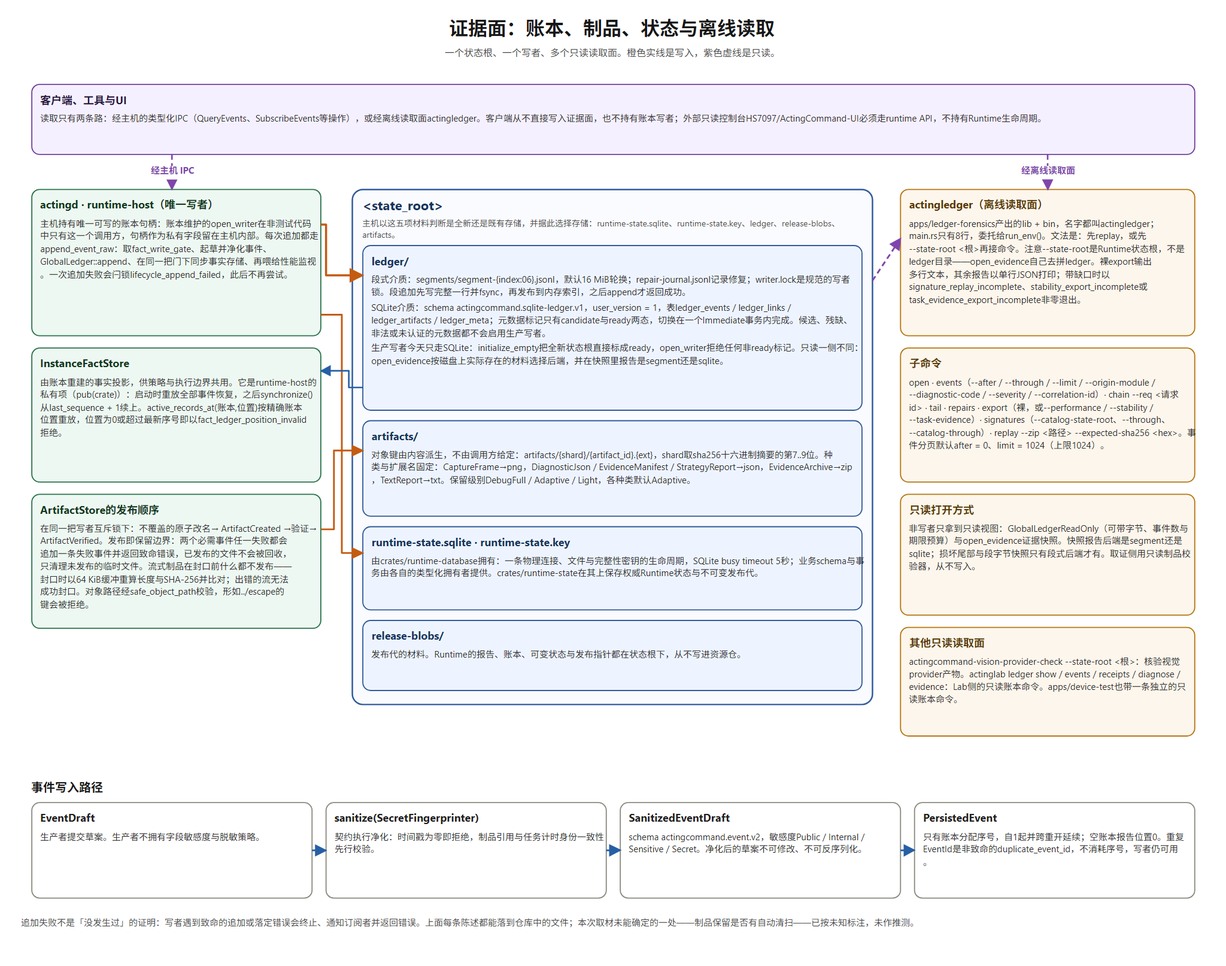
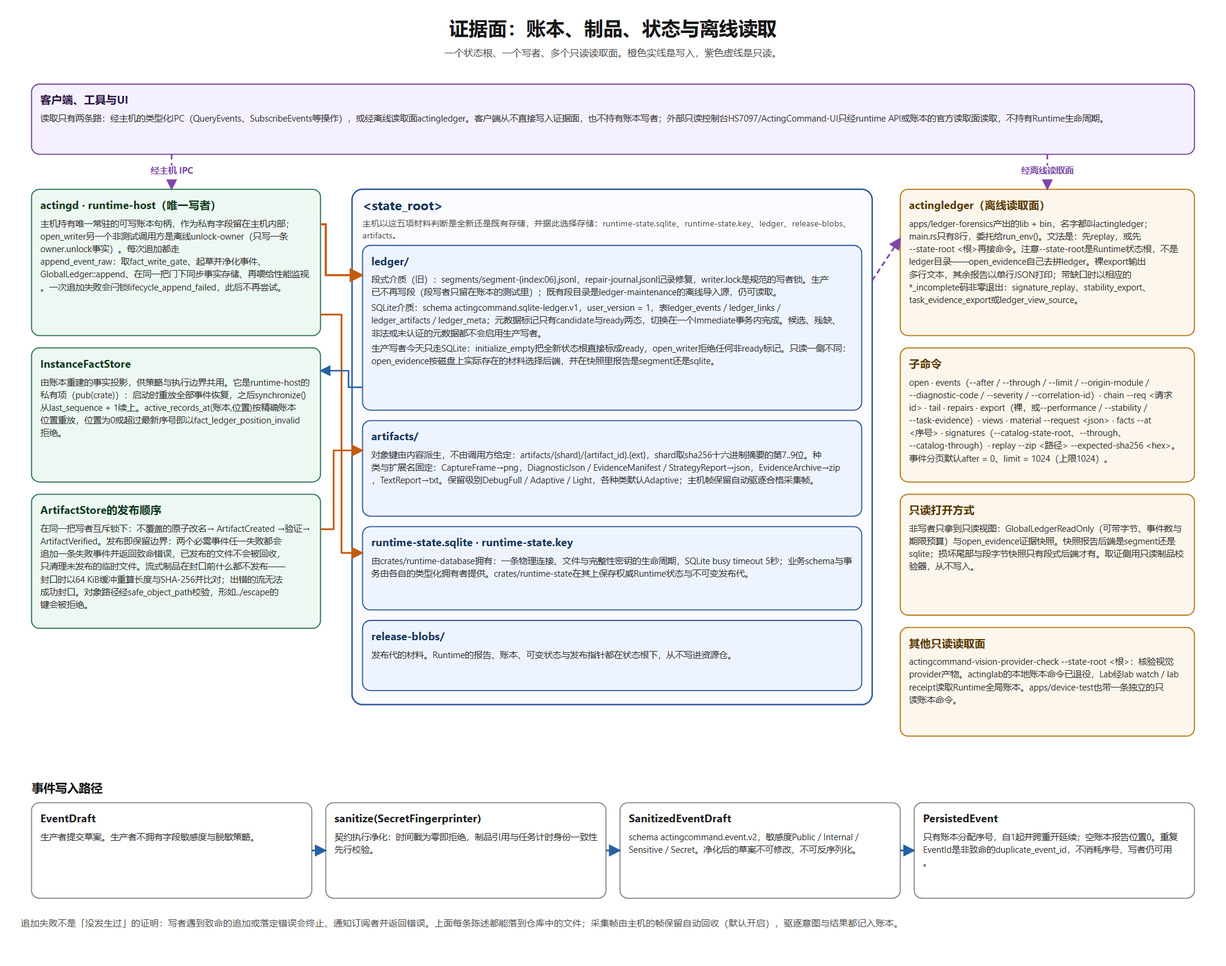
README: bring the pair and its diagrams up to the current state (#332)
Header roles per the owner's 2026-09-29 ruling and the new iteration notice. Verified every count, command, path and line reference against main 3b8b1eed: 55 RuntimeOperation variants, 31 members (22 crates, selection-policy added; no benchmark member), 21 contract dependents, one ratchet file with 132 commands, guard lines 239/333, capacity admission at five entry points, nemu_ipc input backend, the missing actingctl / actingledger / ledger-maintenance subcommands. Current boundaries rewritten for 2026-09-29 (real-device end-to-end run, SQLite-only production ledger with a segment read face, automatic capture-frame retention, UI wizard and console, pinned scheduling package, daemon-side agent surface) and the merge practice. Stale diagram labels fixed in the three SVG pairs; PNGs re-rendered at their previous pixel sizes.

diff --git a/README.md b/README.md
@@ -5,18 +5,18 @@
 <img src="docs/assets/readme/actingcommand-icon.png" width="112" alt="ActingCommand icon">
 
 **Chief Executive Officer & Chairman** — HS7097<br/>
-**Chief Technology Officer & Chief Architect** — GPT‑6 Astra<br/>
-**Board Secretary & Chief Audit Officer** — Fable 5.1<br/>
-**Principal Engineer** — GPT‑6 Astra<br/>
+**Chief Technology Officer & Chief Architect** — Claude Opus 5.5 · GPT‑6 Astra · Claude Fable 5 · GPT‑5.6 Sol<br/>
+**Board Secretary & Chief Audit Officer** — Claude Opus 5.5 · Claude Fable 5.1<br/>
+**Principal Engineer** — Claude Opus 5.5 · GPT‑6 Astra · GPT‑5.6 Sol<br/>
 **Interviewing** — DeepSeek
 
 </div>
 
-**⚠ This program is still iterating rapidly; expect it to be complete within 2–5 weeks.**
+**⚠ The main-line features are complete and have run end to end on a real emulator instance; multi-day validation and clean-up are still under way, and interfaces may still change.**
 
 # ActingCommand Runtime
 
-ActingCommand Runtime is a resident Rust runtime for running multi-target automation on emulators. The kernel carries no identity of any concrete target: contracts, defaults, benchmarks and fixtures are all scanned by guard tests that keep them neutral (`tools/actinglab-architecture/tests/workspace_guards.rs:161`, `:212`). All target knowledge lives as declarative resource packs in separate resource repositories, and the runtime accepts only sealed, hash-verified packs (`actingctl task-run` requires `--package`, plus either `--expected-sha256` or `--package-ref`). The GlobalLedger is the single source of truth, and only runtime-host holds a writable handle to it; a fact must be sanitized by the contract layer into `actingcommand.event.v2` before it may enter the ledger. Device access always goes through a lease granted by the scheduler, and every write revalidates the fence. Every boundary fails closed: invalid configuration, a non-loopback bind, stale evidence and incomplete exports all end in an explicit error or a nonzero exit rather than a silent downgrade.
+ActingCommand Runtime is a resident Rust runtime for running multi-target automation on emulators. The kernel carries no identity of any concrete target: contracts, defaults, benchmarks and fixtures are all scanned by guard tests that keep them neutral (`tools/actinglab-architecture/tests/workspace_guards.rs:239`, `:333`). All target knowledge lives as declarative resource packs in separate resource repositories, and the runtime accepts only sealed, hash-verified packs (`actingctl task-run` requires `--package`, plus either `--expected-sha256` or `--package-ref`). The GlobalLedger is the single source of truth, and only runtime-host holds a writable handle to it; a fact must be sanitized by the contract layer into `actingcommand.event.v2` before it may enter the ledger. Device access always goes through a lease granted by the scheduler, and every write revalidates the fence. Every boundary fails closed: invalid configuration, a non-loopback bind, stale evidence and incomplete exports all end in an explicit error or a nonzero exit rather than a silent downgrade.
 
 [CI main status](https://github.com/HS7097/ActingCommand-Runtime/actions/workflows/ci.yml?query=branch%3Amain) (Windows: fmt / clippy `-D warnings` / test) · [Exact-SHA Windows build](https://github.com/HS7097/ActingCommand-Runtime/actions/workflows/windows-remote-build.yml) · License `AGPL-3.0-only` · [Coordination board](https://github.com/HS7097/ActingCommand-Workflow) · [UI console](https://github.com/HS7097/ActingCommand-UI) · [Legacy archive](https://github.com/HS7097/ActingCommand-Legacy-Runtime)
 
@@ -33,13 +33,13 @@ ActingCommand Runtime is a resident Rust runtime for running multi-target automa
 
 ![ActingCommand Runtime layering and ownership overview](docs/assets/readme/architecture-overview.en.png)
 
-`actingcommand-contract` is where the whole workspace converges: 17 packages depend on it, it depends on no workspace package, and it uses only serde, serde_json and sha2. It defines the vocabulary of the protocol, device and engine boundaries, and contains no target logic.
+`actingcommand-contract` is where the whole workspace converges: 21 packages depend on it (22 counting dev-dependencies), it depends on no workspace package, and it uses only serde, serde_json and sha2. It defines the vocabulary of the protocol, device and engine boundaries, and contains no target logic.
 
 `actingcommand-runtime-client` is the only typed IPC path available to clients. A client never constructs and never owns a production device backend, and closing a UI or CLI client does not stop the runtime.
 
-`actingcommand-runtime-host` owns the resident process. With an out-degree of 13 it is the widest node in the graph. It exclusively holds local IPC, the lease-gated DeviceProxy and lifecycle control, and, among normal (non-dev) dependencies, it is the sole consumer of `actingcommand-scheduler`, `actingcommand-runtime-state` and `actingcommand-host-metrics`.
+`actingcommand-runtime-host` owns the resident process. With an out-degree of 13 it is the widest node in the graph. It exclusively holds local IPC, the lease-gated DeviceProxy and lifecycle control, and, among normal (non-dev) dependencies, it is the sole consumer of `actingcommand-runtime-state`; `actingcommand-scheduler` and `actingcommand-host-metrics` it shares only with the `device-test` probing tool, which admits its own device writes through a process-local scheduler lease.
 
-`actingcommand-scheduler` owns per-instance write admission, lease lifetime and fencing authority, and its only dependency is the contract. `actingcommand-policy` is a pure scheduling-policy contract shared by the catalog compiler and the evaluator. `actingcommand-execution-kernel` holds the daemon-side execution session and pure task/probe decision planning; it is invoked only after the scheduler has admitted the work and fencing has completed, and a client never obtains a backend object.
+`actingcommand-scheduler` owns per-instance write admission, lease lifetime and fencing authority, and its only dependency is the contract. `actingcommand-policy` is a pure scheduling-policy contract shared by the catalog compiler and the evaluator; it builds on `actingcommand-selection-policy`, a pure selection evaluator (a declared document, a bounded candidate set and an explicit fact snapshot in, a deterministic choice with its reasons out). `actingcommand-execution-kernel` holds the daemon-side execution session and pure task/probe decision planning; it is invoked only after the scheduler has admitted the work and fencing has completed, and a client never obtains a backend object.
 
 The device layer `actingcommand-device` selects input through an explicit backend chain, which keeps a single backend failure visible and bounded. The recognition stack is strictly layered and acyclic: `recognition` ← `recognition-pack` ← `page-detector` ← `pack-containment`. `actingcommand-vision-ffi` is the safety boundary for the OCR/NN engines, making it impossible for a caller to quietly substitute a simulated recognition for a production result.
 
@@ -51,14 +51,14 @@ The authoring side is removable: `crates/lab` has exactly one consumer, `apps/ac
 
 ![The complete lifecycle of one runtime request](docs/assets/readme/request-lifecycle.en.png)
 
-1. **Assemble** (`runtime-client`): the caller picks one of 47 typed `RuntimeOperation` variants; the client mints a request_id and a correlation_id and writes the actor, source and submission time, forming an `actingcommand.runtime.request.v3` request.
+1. **Assemble** (`runtime-client`): the caller picks one of 55 typed `RuntimeOperation` variants; the client mints a request_id and a correlation_id and writes the actor, source and submission time, forming an `actingcommand.runtime.request.v3` request.
 2. **Discover** (`runtime-client`): the client reads `<state_root>/runtime-info.json` and requires its host to be a loopback address and pid/port/start time to be nonzero; after connecting over TCP it sends Health first, and if the owner epoch no longer matches the one seen at discovery the session is refused with `runtime_owner_epoch_changed`.
 3. **Frame** (`runtime-client`): a request goes out as a 4-byte big-endian length prefix plus JSON, with a 1 MiB default cap on both ends, and the receipt read deadline is loaded according to the operation category.
 4. **Accept** (`runtime-host`): the accept loop assigns each connection an increasing ConnectionId and serves it on its own named thread; the connection is wrapped in catch_unwind and, on exit, releases that connection's leases under either Disconnect or HostShutdown.
-5. **Validate** (`actingcommand-contract`): `RuntimeRequest::validate()` rejects, in order, a wrong schema, a zero timestamp and an actor/source combination outside the allow table, then applies the per-family origin gates: shutdown must be User/Ui or Cli/Cli, Lab and debug must be Lab/Lab, a governance identity card must be declared by User/Ui or Cli/Cli and an approval decision must be User/Ui, and facts and planning must be Agent/Adapter. A failure produces a Denied + InvalidRequest receipt.
+5. **Validate** (`actingcommand-contract`): `RuntimeRequest::validate()` rejects, in order, a wrong schema, a zero timestamp and an actor/source combination outside the allow table, then applies the per-family origin gates: shutdown, emulator control, instance discovery, self-check and scheduling pause / resume must be User/Ui or Cli/Cli, Lab and debug must be Lab/Lab, a governance identity card must be declared by User/Ui or Cli/Cli and an approval decision must be User/Ui, and facts and planning must be Agent/Adapter (a fact observation made only of manual priority offsets may also come from User/Ui or Cli/Cli). A failure produces a Denied + InvalidRequest receipt.
 6. **Authorize** (`runtime-host`): an approval decision additionally requires that the connection has previously had a governance identity card accepted by `DeclareGovernanceIdentity` (client name, optional version and instance; no shared secret). The host checks the card against its allowed clients and registered instances, records every declaration, accepted or refused, as a `governance.identity_declared` ledger event, and on acceptance records the ConnectionId.
 7. **Dispatch** (`runtime-host`): `process_validated` is the single exhaustive match from operation family to handler; a lease-bearing family first asserts that the target alias/ID is a physical instance.
-8. **Capacity admission** (`runtime-host`): before authorizing new work the host consults the capacity projection. The projection reads the last committed capacity sample from an in-process cache (each entry carries a reference back to the ledger event), and refuses on a missing sample, an owner epoch change, a sample outside the freshness window, a volume binding change, an unreadable volume or hard-threshold pressure; a refusal appends a Scheduler `denied` event and comes back with the receipt. Four request-side work entry points are protected this way (the same projection also has call sites on non-request paths): granting a lease, collecting an observation, running a contained task and running a scheduled contained task.
+8. **Capacity admission** (`runtime-host`): before authorizing new work the host consults the capacity projection. The projection reads the last committed capacity sample from an in-process cache (each entry carries a reference back to the ledger event), and refuses on a missing sample, an owner epoch change, a sample outside the freshness window, a volume binding change, an unreadable volume or hard-threshold pressure; a refusal appends a Scheduler `denied` event and comes back with the receipt. Five work entry points are protected this way (the same projection also has other call sites: policy dispatch, the monitor probe, lease transfer and the performance monitor's preflight): granting a lease, collecting an observation, running a contained task, running a scheduled contained task and running an instance's startup package after an emulator start.
 9. **Lease** (`scheduler`): the lease is prepared and committed in two phases under the per-instance admission lock; the TTL of a contained task is derived from the deadline of the request itself, and the task deadline is then clamped to lease expiry minus the heartbeat reserve.
 10. **Fence every call** (`scheduler`): every single call that touches the device revalidates the token — owner epoch, cooldown, lease position, instance/lease/holder identity, owning connection, expiry, whole-token equality and the resource_close_only state.
 11. **Execute** (`execution-kernel`): the kernel runs the contained task under a daemon-owned session, selects the capture and input backends by name and calls the vision provider with a fixed model_ref and model_sha256; every capture, input and trace calls back into the host through `ContainedTaskRuntime`, so the host records the facts, not the kernel.
@@ -68,7 +68,7 @@ The authoring side is removable: `crates/lab` has exactly one consumer, `apps/ac
 
 ![The evidence plane: a single-writer ledger and read-only readers](docs/assets/readme/evidence-plane.en.png)
 
-**GlobalLedger** is the single source of truth and runtime-host is its only writer: the writable handle is opened only in `RuntimeHost::start_with_provider` and is held as a private field; the offline `actingd unlock-owner` alone opens its own writer for its single `owner.unlock` fact. A producer submits an `EventDraft`, which must pass `sanitize()` into an immutable, non-deserializable `SanitizedEventDraft` (`actingcommand.event.v2`) before it may enter the ledger; field sensitivity and the redaction policy are decided by the contract, not by the producer. Sequence numbers are assigned by the ledger alone, start at 1 and continue across a reopen. A duplicate EventId is the nonfatal `duplicate_event_id` and consumes no sequence number, whereas a failed append does not mean "the event does not exist" — the writer terminates on a fatal error and notifies its subscribers. The medium the host writes to today is SQLite: schema `actingcommand.sqlite-ledger.v1`, with its tables in the same database as `runtime-state.sqlite`. A brand-new state root has the `ready` marker written directly by `initialize_empty`, and `open_writer` refuses any marker that is not `ready`, so a freshly installed instance runs on SQLite from the start. The segment storage `<state_root>/ledger/segments/segment-NNNNNN.jsonl` (16 MiB rotation by default, whole lines written and fsynced before being published to the in-memory index) is the legacy on-disk form, frozen and imported by the offline `ledger-maintenance` path; a `candidate` or unauthenticated marker never enables the production writer, and the cutover completes inside a single Immediate transaction. The read-only side differs: `open_evidence` picks its backend from the material actually present in the state root and reports in the snapshot whether that backend is segment or sqlite.
+**GlobalLedger** is the single source of truth and runtime-host is its only writer: the writable handle is opened only in `RuntimeHost::start_with_provider` and is held as a private field; the offline `actingd unlock-owner` alone opens its own writer for its single `owner.unlock` fact. A producer submits an `EventDraft`, which must pass `sanitize()` into an immutable, non-deserializable `SanitizedEventDraft` (`actingcommand.event.v2`) before it may enter the ledger; field sensitivity and the redaction policy are decided by the contract, not by the producer. Sequence numbers are assigned by the ledger alone, start at 1 and continue across a reopen. A duplicate EventId is the nonfatal `duplicate_event_id` and consumes no sequence number, whereas a failed append does not mean "the event does not exist" — the writer terminates on a fatal error and notifies its subscribers. The medium the host writes to today is SQLite: schema `actingcommand.sqlite-ledger.v1`, with its tables in the same database as `runtime-state.sqlite`. A brand-new state root has the `ready` marker written directly by `initialize_empty`, and `open_writer` refuses any marker that is not `ready`, so a freshly installed instance runs on SQLite from the start. The segment storage `<state_root>/ledger/segments/segment-NNNNNN.jsonl` is the legacy on-disk form: production no longer writes it (the segment writer survives only in the ledger crate's own tests), and an existing segment directory is frozen and imported by the offline `ledger-maintenance` path; a `candidate` or unauthenticated marker never enables the production writer, and the cutover completes inside a single Immediate transaction. The read-only side differs: `open_evidence` picks its backend from the material actually present in the state root (the SQLite ledger when its schema is present, otherwise the segment directory) and reports in the snapshot whether that backend is segment or sqlite.
 
 **ArtifactStore** owns artifact bytes and hashes. The object key is derived from content rather than specified by the caller: `artifacts/{shard}/{artifact_id}.{ext}`. The publication order is no-overwrite atomic rename → ArtifactCreated → verification → ArtifactVerified; publication is the retention boundary — a failure of either required event appends a failure event and returns a fatal error, but an already published file is not reclaimed and only unpublished temporary files are cleaned up. A streaming artifact publishes nothing until sealing has recomputed its length and SHA-256.
 
@@ -76,7 +76,7 @@ The authoring side is removable: `crates/lab` has exactly one consumer, `apps/ac
 
 **InstanceFactStore** is a fact projection rebuilt from the ledger and private to runtime-host; it recovers at startup by replaying every event and afterwards synchronizes incrementally from last_sequence+1. It can also replay history at an exact ledger position; a position of 0 or one beyond the latest sequence number is refused.
 
-**Offline reads** are served by `actingledger`, which opens only a read-only evidence snapshot and never writes. Its subcommands are `open`, `events`, `chain --req <request-id>`, `tail`, `repairs`, `export` (optionally with `--performance` / `--stability` / `--task-evidence`), `signatures`, `facts --at <sequence>` (the runtime fact store replayed at one ledger position) and `replay`. Except for bare `export`, which prints a human-readable multi-line text report, every report is single-line JSON; when evidence has gaps the report is printed first and the tool then exits nonzero with `signature_replay_incomplete`, `stability_export_incomplete`, `task_evidence_export_incomplete` or, for `facts`, `runtime_facts_not_available` / the failure code.
+**Offline reads** are served by `actingledger`, which opens only a read-only evidence snapshot and never writes. Its subcommands are `open`, `events`, `chain --req <request-id>`, `tail`, `repairs`, `export` (optionally with `--performance` / `--stability` / `--task-evidence`), `views` (one page of the ledger's terminal views, the same page the runtime serves), `material --request <json>` (one verified range of one committed artifact), `signatures`, `facts --at <sequence>` (the runtime fact store replayed at one ledger position) and `replay`. Except for bare `export`, which prints a human-readable multi-line text report, every report is single-line JSON; when evidence has gaps the report is printed first and the tool then exits nonzero with `signature_replay_incomplete`, `stability_export_incomplete`, `task_evidence_export_incomplete`, `ledger_view_source_incomplete` or, for `facts`, `runtime_facts_not_available` / the failure code.
 
 ## Invariants and guards
 
@@ -84,13 +84,13 @@ The authoring side is removable: `crates/lab` has exactly one consumer, `apps/ac
 
 The guard suite lives in `tools/actinglab-architecture/tests/workspace_guards.rs`. The Lab checks preserve private module ownership, helper visibility and production call paths; Rust compilation checks import resolution. The named guards include `c2_runtime_code_contracts_defaults_and_fixtures_are_project_neutral`, `r2f_product_and_authoring_paths_have_no_builtin_game_identity` (the neutrality scans), `workspace_packages_do_not_depend_on_apps`, `contract_dependencies_stay_within_budget`, `actingcommand_contract_has_no_dependency_path_to_actingcommand_ledger`, `all_non_lab_packages_remain_lab_free_with_all_features`, `production_packages_cannot_reach_resource_tooling`, `dependency_metadata_requests_all_features` and `feature_gated_forbidden_dependency_paths_are_detected`.
 
-Three ratchet files sit in `ratchet/` at the repository root: `actinglab_commands.json` (schema `actingcommand.command-inventory.v1`, 47 top-level dispatch arms / 131 commands / 8 pipeline exemptions), `main_rs_lines.txt` (`418`) and `ledger_forensics_main_rs_lines.txt` (`8`). The guard tests `command_inventory_matches_checked_in_snapshot`, `main_rs_line_ratchet_matches_checked_in_baseline` and `forensic_leaf_dependency_boundary_is_narrow_and_production_free` read them respectively.
+One ratchet file sits in `ratchet/` at the repository root: `actinglab_commands.json` (schema `actingcommand.command-inventory.v1`, 47 top-level dispatch arms / 132 commands / 8 pipeline exemptions), read by the guard test `command_inventory_matches_checked_in_snapshot`.
 
 There are three CI workflows in total. `ci.yml` runs formatting, a locked workspace build and Clippy on windows-latest. Its Test step preserves four separate results: the workspace excluding actingd/runtime-client, runtime-client, the actingd binary and the process integration target. Test observation also runs the two existing runtime-client checks with the `test-observation` feature; the architecture guards remain part of the workspace tests. `commit-identity-guard.yml` runs on ubuntu-latest and requires the author **and** committer email of every commit in the pushed or PR range to fall inside an exact eight-entry allowlist (two noreply forms for each of the three accounts HS7097 / HS7097Agt / HS7097ViW, one registered mailbox address, and the GitHub web committer `noreply@github.com`), failing otherwise. `windows-remote-build.yml` parses and re-checks a 40-character lowercase SHA and then runs `cargo build --locked --release --target x86_64-pc-windows-msvc`, producing two artifacts, each with a `BUILD-MANIFEST.json`.
 
 ## Workspace members
 
-The workspace declares 30 members, resolver `3`, a workspace-level edition of 2024, all `publish = false`.
+The workspace declares 31 members, resolver `3`, a workspace-level edition of 2024, all `publish = false`.
 
 ### apps (6)
 
@@ -98,12 +98,12 @@ The workspace declares 30 members, resolver `3`, a workspace-level edition of 20
 | --- | --- | --- | --- |
 | apps/actingctl | actingcommand-actingctl | bin `actingctl` | Lean production CLI for correlation-scoped runtime flows |
 | apps/actingd | actingcommand-actingd | bin `actingcommand-actingd` | Lean process adapter for the resident runtime |
-| apps/actinglab | actingcommand-actinglab | bin `actinglab` | Authoring and debugging CLI, 47 top-level dispatch arms, 131 commands |
+| apps/actinglab | actingcommand-actinglab | bin `actinglab` | Authoring and debugging CLI, 47 top-level dispatch arms, 132 commands |
 | apps/device-test | actingcommand-device-test | bin `actingcommand-device-test` | Device backend probing, offline dry-run planning, page/recognition evaluation |
 | apps/ledger-forensics | actingledger | lib + bin `actingledger` | Read-only front end for ledger forensic reports, replay and the signature catalog |
 | apps/vision-provider-check | actingcommand-vision-provider-check | bin | Verifies vision provider artifact manifests, emits artifact locks and export audits |
 
-### crates (21)
+### crates (22)
 
 | Path | Package | Responsibility |
 | --- | --- | --- |
@@ -127,6 +127,7 @@ The workspace declares 30 members, resolver `3`, a workspace-level edition of 20
 | crates/runtime-host | actingcommand-runtime-host | Resident runtime ownership, local IPC, lease-gated DeviceProxy and lifecycle |
 | crates/runtime-state | actingcommand-runtime-state | SQLite-backed authoritative runtime state and immutable release generations |
 | crates/scheduler | actingcommand-scheduler | Per-instance write admission, lease lifetime and fencing authority |
+| crates/selection-policy | actingcommand-selection-policy | Pure selection-policy evaluator: declared document, bounded candidates and explicit facts in, deterministic choice with reasons out; plus the offline debugging bin `selection-eval` |
 | crates/vision-ffi | actingcommand-vision-ffi | Safe FFI boundary for OCR/NN engines |
 
 ### providers (2)
@@ -136,7 +137,7 @@ The workspace declares 30 members, resolver `3`, a workspace-level edition of 20
 | providers/onnxruntime-json | actingcommand-onnxruntime-json-provider | cdylib + rlib | ONNXRuntime-backed NN JSON ABI provider, exports `ac_onnxruntime_classify_json` |
 | providers/ppocr-onnx-json | actingcommand-ppocr-onnx-json-provider | cdylib + rlib | ONNXRuntime-backed PPOCR ROI recognizer, exports `ac_fastdeploy_ppocr_read_text_json`; ships no models or runtime DLLs |
 
-### tools (1) and benchmarks (1)
+### tools (1)
 
 | Path | Package | Output | Responsibility |
 | --- | --- | --- | --- |
@@ -144,18 +145,20 @@ The workspace declares 30 members, resolver `3`, a workspace-level edition of 20
 
 ## Device and recognition
 
-Capture backends exist by name: `fixture_simulation`, `adb_screencap`, `adb_screencap_encode`, `adb_screencap_raw_gzip`, `droidcast_raw`, `nemu_ipc`, with selectable values `auto`, `auto-fastest`, `adb`, `droidcast_raw` and `nemu_ipc`. The input backends are `maatouch`, `minitouch` and `adb_shell_input`, with selectable values `auto`, `auto-fastest`, `maatouch`, `minitouch` and `adb_shell_input`. The Nemu IPC capture backend is implemented inside the crate and carries its own worker thread. Vendor stdio is captured in bounded, explicitly closed sessions that report a resource-quiescence state.
+Capture backends exist by name: `fixture_simulation`, `adb_screencap`, `adb_screencap_encode`, `adb_screencap_raw_gzip`, `droidcast_raw`, `nemu_ipc`, with selectable values `auto`, `auto-fastest`, `adb`, `droidcast_raw` and `nemu_ipc`. The input backends are `nemu_ipc`, `maatouch`, `minitouch` and `adb_shell_input`, with selectable values `auto`, `auto-fastest`, `nemu_ipc`, `maatouch`, `minitouch` and `adb_shell_input`. The Nemu IPC capture and input backends are implemented inside the crate; the capture backend carries its own worker thread. Vendor stdio is captured in bounded, explicitly closed sessions that report a resource-quiescence state.
 
 Recognition targets come in five kinds: Template, Color, ClickOnly, Ocr and Nn. Template matching is CPU image matching with an explicit 5-second timeout and a two-stage coarse-match/refine structure; a timeout failure reports which stage it occurred in. Production OCR and NN are reachable only through the `vision-ffi` boundary into two separate cdylib providers, and the host-side adapter enforces provider identity: `model_ref` must be a bounded logical identifier containing no `/`, `\` or `:` (host paths are not accepted), and `model_sha256` must be exactly 64 lowercase hexadecimal characters. Page projection is a side-effect-free projection of the resolved facts of a single frame, schema `actingcommand.page-projection.v1`, capped at 64 entries / 32 KiB, with entries keyed by role (Navigate / PageOp / ControlPoint), task ID, resource ID and page, each entry carrying a Safety classification that defaults to Dangerous; OCR field declarations under operation schema `0.8` go through `post_admission_ocr.mode = fields_v1`, field declarations cannot be mixed with the older truth-set declarations, and this contract contains no target-proprietary value (`contracts/ocr-fields.md`, `contracts/page-projection.md`).
 
 ## Build and run
+
+The Windows exact-SHA Runtime artifact carries the two Runtime executables, a configuration template to fill in, the installation notes and the unreleased-candidate notes, each file bound by the same BUILD-MANIFEST. See the [download contract](scripts/windows-tools/README.md) and the [installation notes](distribution/windows/INSTALL.md); the Tools remain a separate artifact.
 
 The `build.rs` of `apps/actinglab` reads Git metadata to determine HEAD. When Git metadata is available and `ACTINGCOMMAND_RUNTIME_HEAD` is also set, it must be 40 hexadecimal characters and must match the repository HEAD, or the build panics; when Git metadata is unavailable (a source tree with no `.git`, for example), that variable is required.
 
 A normal `actingd` invocation accepts only the two arguments `--config <path>`; the first argument may instead select the `ledger-maintenance`, `check-config` or `unlock-owner` subcommand; anything else is `usage_invalid`. The config schema is `actingcommand.actingd.config.v1`, capped at 1 MiB, and rejects unknown fields; `bind_host` must resolve to an IP **and** must be a loopback address, and `secret_fingerprint_salt` must be 16..=1024 bytes. At startup `actingd` records its in-memory runtime configuration manifest (the subsystems it runs and every effective parameter with its source; the salt only as a byte length) as the program facts `config.subsystems` / `config.parameters`, readable with `actingctl facts --program` and printed by `check-config`. For both `actingctl` and `actingledger`, `--state-root` means the runtime state root, not the `ledger` directory.
 
 ```bash
-# Local build; the three gate commands below are identical to CI (CI's release build additionally uses --locked and an explicit MSVC target)
+# Local build and gates; fmt and clippy are identical to CI, while CI splits the test run into the four groups described above (CI's release build additionally uses --locked and an explicit MSVC target)
 cargo build --release
 cargo fmt --all -- --check
 cargo clippy --workspace --all-targets --keep-going -- -D warnings
@@ -166,6 +169,7 @@ actingcommand-actingd --config runtime.json
 
 # Clients (the subcommand must be the first argument, flags come after it; every command needs --state-root)
 actingctl status --state-root <state-root>
+actingctl status --config --state-root <state-root>     # only the config.subsystems / config.parameters program facts
 actingctl facts --program --state-root <state-root>
 actingctl monitor-status --state-root <state-root>
 actingctl observe --state-root <state-root> --instance <alias>
@@ -175,12 +179,15 @@ actingctl monitor-set --state-root <state-root> --instance <alias> --interval-ms
 actingctl monitor-clear --state-root <state-root> --instance <alias>
 actingctl emulator status --state-root <state-root> --instance <alias>
 actingctl emulator start --state-root <state-root> --instance <alias>     # also: stop | restart (explicit request only; fenced per instance; a configured startup_package is scheduled as a contained task afterwards)
+actingctl emulator discover --state-root <state-root>     # re-run the MuMu instance discovery and list every instance with its bound alias; starts no instance, binds, leases and opens nothing
 actingctl pause --state-root <state-root> [--instance <alias>] [--reason <code>] [--drain-timeout-ms <n>]     # stop policy dispatch: globally, or for one physical instance after its in-flight runs drain; memory only, no expiry (contracts/scheduling-pause.md)
 actingctl resume --state-root <state-root> [--instance <alias>]     # lift that pause; status shows the global and per-instance pause states
 actingctl selfcheck <alias> --state-root <state-root>     # reconnect and self-check one physical instance now (Nemu / ADB opens under a dedicated preparation lease, no input, no frame kept); prints the self-check in the resume receipt's shape; the instance stays unavailable to the policy until a self-check passes (contracts/runtime-fact-store.md)
-actingctl task-run --state-root <state-root> --instance <alias> --package <pkg.zip> --expected-sha256 <hex>
+actingctl task-run --state-root <state-root> --instance <alias> --package <pkg.zip> --expected-sha256 <hex>     # optional: --recovery-package <pkg.zip> --recovery-expected-sha256 <hex>
 actingctl task-offset <task_id> <offset_milli> --state-root <state-root> [--instance <alias>]     # manual priority offset (±1000000 milli) as a session.task.<task_id>.priority_offset fact; without --instance it is task-level for the one configured game (task_offset_scope_ambiguous otherwise)
 actingctl request-shutdown --state-root <state-root>
+actingctl request-shutdown --state-root <state-root> --wait 60     # then wait (1..=3600 s) until the owner record is closed and the process has exited; read-only
+actingctl agent-publish-facts --state-root <state-root> --record-file <observation.json>     # Agent/Adapter origin: publish one bounded fact observation
 
 # Read-only forensics (same state root)
 actingledger --state-root <state-root> open
@@ -189,12 +196,17 @@ actingledger --state-root <state-root> chain --req <request-id>
 actingledger --state-root <state-root> tail
 actingledger --state-root <state-root> repairs
 actingledger --state-root <state-root> export --task-evidence --after 0 --limit 1024
+actingledger --state-root <state-root> views [--query <json>] [--profile <profile>] [--limit <n>] [--snapshot <sequence>] [--instance-port <port>]
+actingledger --state-root <state-root> material --request <json>
+actingledger --state-root <state-root> facts --at <sequence>
 actingledger replay --zip <evidence.zip> --expected-sha256 <hex>
 
 # Offline ledger maintenance (assembles no providers, IPC or devices)
 actingcommand-actingd ledger-maintenance backup  --config runtime.json --backup frozen-backup
 actingcommand-actingd ledger-maintenance dry-run --config runtime.json --backup frozen-backup
+actingcommand-actingd ledger-maintenance import  --config runtime.json --backup frozen-backup
 actingcommand-actingd ledger-maintenance verify  --config runtime.json
+actingcommand-actingd ledger-maintenance restore --config runtime.json --backup frozen-backup --target <restore-dir> [--artifact-root <dir>]
 
 # Side-effect-free configuration check (same load/assemble/validate as startup; touches nothing under state_root)
 actingcommand-actingd check-config --config runtime.json
@@ -212,20 +224,21 @@ actingcommand-device-test mumu-discover [--root <mumu-install-root>]
 
 Note: the daemon binary cargo produces is named `actingcommand-actingd`; the short names are `actingctl`, `actinglab`, `actingledger`.
 
-## Current boundaries (2026-09-13)
+## Current boundaries (2026-09-29)
 
+- The program has run end to end on a real MuMu emulator instance from an exact-SHA remote build: install → start → connection self-check → pause / resume → takeover after an abnormal exit → policy dispatch → contained task → settlement facts recorded → console view. The records of that run are kept outside this repository, and any other real-device conclusion still has to state its backend, resource pack and boundary. Multi-day long runs and multi-instance long runs have not been validated yet.
 - All evidence for the completion invariants comes from constructive tests runnable in CI, using neutral data, fake backends, an accelerated clock and real subprocesses. Real-device validation, target-client validation, UI validation and 48-hour wall-clock validation are **not** within the scope of those claims.
-- Device backends exist by name and are selectable, but this repository carries no real-device acceptance evidence; any real-device conclusion has to state its backend, resource pack and boundary separately.
-- The ledger medium migration is in flight: the host's production writer already runs on the SQLite medium only, and segment storage is retained as an import source — the offline `ledger-maintenance` path is responsible for freezing and importing an existing segment directory. The segment read face and the segment byte snapshots are still in the code; their retirement is scheduled for a later stage.
-- Artifact retention has exactly three values, DebugFull / Adaptive / Light, and defaults to Adaptive; no automatic cleanup implementation was found in this repository, so do not assume automatic reclamation exists.
-- The UI is an external read-only console, at an early stage in a separate repository; it must go through the runtime API and must not own the runtime lifecycle.
-- Only the daemon side of the agent surface is built: `runtime-host` has an `AgentDispatcher` (wake records, session start/stop and bounded management) that can be enabled from the `agent_dispatcher` section of the `actingd` config, and `actingctl agent-publish-facts` is an existing Agent/Adapter origin entry point. This repository contains no external agent client, and automatic wake-up, autonomous exploration and the complete self-maintenance loop are not built yet.
+- Ledger: the host's production writer runs on SQLite only. Segment writing survives only in the ledger crate's own tests; an existing segment directory is an offline import source that `ledger-maintenance` freezes and imports. The read-only side keeps a segment read face: `open_evidence` falls back to the segment directory, with its segment byte snapshots, when the state root holds no SQLite ledger.
+- Artifact retention: the retention class has three values, DebugFull / Adaptive / Light, and every artifact kind defaults to Adaptive. Capture frames are reclaimed automatically: the host runs a bounded frame-retention round (16 objects / 64 MiB / 1 s per round) on its performance-monitor loop, on by default (`frame_retention_enabled`); each eviction is written to the ledger as an intent before the file is deleted and as an outcome afterwards, and the ledger keeps the evicted frame's hash and reference. Warning-linked and Lab frames stay pinned; frames of failed or cancelled runs become eligible after 3 later successful runs on the same instance or 7 days (`frame_retention_failed_run_successes` / `frame_retention_failed_run_days`). Other artifact kinds are not reclaimed automatically.
+- The UI lives in a separate repository: an online / offline setup wizard and a read-only monitoring console that can start the daemon. It talks to the runtime only through its API or the ledger's official read face and does not own the runtime lifecycle.
+- Resources: an instance's configured `resource_package` is validated (by `check-config` and at startup) and shown in the runtime status, but scheduling still runs the package pinned in the `actingd` configuration (`policy.procedure_manifest[]`: `package_digest` plus `scheduled_execution.package_path`). Automatic resource updating is not built.
+- Only the daemon side of the agent surface is built: `runtime-host` has an `AgentDispatcher` that records wake requests into the ledger (`agent.wake_requested`, from policy timeline and drift signals) and manages bounded agent sessions; it can be enabled from the `agent_dispatcher` section of the `actingd` config, and `actingctl agent-publish-facts` is an existing Agent/Adapter origin entry point. This repository contains no external agent client; nothing wakes an external agent automatically, and autonomous exploration and the complete self-maintenance loop are not built yet.
 
 ## Collaboration
 
 Identities: HS7097 is the owner and arbitrator; HS7097Agt is the implementer account; HS7097ViW is the acceptance account. The `commit-identity-guard` workflow requires the author and committer email of every commit to fall inside an exact eight-entry allowlist: two noreply forms for each of these three accounts, one registered mailbox address, and the GitHub web committer `noreply@github.com`.
 
-Merges to main are performed only by the owner. The order for submitting work is: open an issue on the board repository first, then open a branch and a PR here, and once all required CI passes, stop in a mergeable state and wait for the owner. Runtime reports, the ledger, mutable state and release pointers are all written under the runtime state root, never back into a resource repository.
+Work starts from an issue on the board repository; the implementer account opens the branch and the PR here; once all required CI passes and the acceptance review is done, the coordinator (Claude, on the owner's standing delegation) merges it. The owner can take merging back at any time. Runtime reports, the ledger, mutable state and release pointers are all written under the runtime state root, never back into a resource repository.
 
 ## License
 
